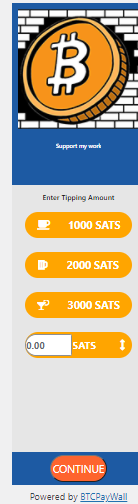
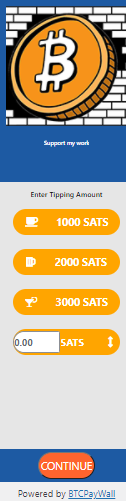
Set metabox under title

diff --git a/assets/src/css/btc-paywall-admin.css b/assets/src/css/btc-paywall-admin.css
@@ -656,9 +656,7 @@ Settings Tabs
 
 /*Tipping metabox*/
 
-/* .btcpaywall_metabox_wrap {
-  background-color: #f4f0ec;
-} */
+
 
 .btcpaywall_metabox_wrap_metabox_tabs {
   background-color: #1d59a2;
@@ -707,6 +705,8 @@ Settings Tabs
 
 .btcpaywall_field_wrap div:nth-child(1),
 .btcpaywall_field_wrap div:nth-child(2) {
+  display: flex;
+  align-items: center;
   width: 49%;
 }
 
@@ -750,7 +750,6 @@ Settings Tabs
   text-transform: none;
   line-height: 1;
   -webkit-font-smoothing: antialiased;
-  margin-left: -30px;
   text-indent: 0;
   text-align: center;
 }
@@ -767,6 +766,7 @@ Settings Tabs
   display: flex;
   flex-direction: column;
   align-items: center;
+  text-align: center;
   gap: 5px;
   width: 40%;
   border: solid 1px #ccc;

diff --git a/includes/admin/tipping-forms/class-tipping-metabox.php b/includes/admin/tipping-forms/class-tipping-metabox.php
@@ -36,6 +36,8 @@ class Tipping_Forms_Metabox
             __('Tipping Form', 'btcpaywall'),
             [$this, 'html'],
             'tipping',
+            'normal',
+            'high'
         );
     }
 
@@ -315,7 +317,7 @@ class Tipping_Forms_Metabox
                                 </option>
                             <?php endforeach; ?>
                         </select>
-                        <input type="text" id="btcpw_tipping_page_icon1" class="btcpw_tipping_page_icon1" name="btcpw_tipping_page_fixed_amount[value1][icon]" placeholder="Font Awesome Icon" title="Enter Font Awesome Icon class value. For example, in order to use beer icon <i class=fa fa-beer></i> you need to enter fa fa-beer." />
+                        <input type="text" id="btcpw_tipping_page_icon1" class="btcpw_tipping_page_icon1" name="btcpw_tipping_page_fixed_amount[value1][icon]" placeholder="Font Awesome Icon 5" title="Enter Font Awesome 5 Icon class value. For example, in order to use beer icon <i class=fa fa-beer></i> you need to enter fa fa-beer." />
                     </fieldset>
                     <fieldset class="btcpaywall_field_wrap"><label>Default price2</label>
                         <input type="checkbox" id="btcpw_page_value_2_enabled" class="btcpw_fixed_amount_enable" name="btcpw_tipping_page_fixed_amount[value2][enabled]" value="true" />
@@ -328,7 +330,7 @@ class Tipping_Forms_Metabox
                                 </option>
                             <?php endforeach; ?>
                         </select>
-                        <input type="text" id="btcpw_tipping_page_icon2" class="btcpw_tipping_page_icon2" name="btcpw_tipping_page_fixed_amount[value2][icon]" placeholder="Font Awesome Icon" title="Enter Font Awesome Icon class value. For example, in order to use beer icon <i class=fa fa-beer></i> you need to enter fa fa-beer." />
+                        <input type="text" id="btcpw_tipping_page_icon2" class="btcpw_tipping_page_icon2" name="btcpw_tipping_page_fixed_amount[value2][icon]" placeholder="Font Awesome 5 Icon 5" title="Enter Font Awesome Icon class value. For example, in order to use beer icon <i class=fa fa-beer></i> you need to enter fa fa-beer." />
                     </fieldset>
                     <fieldset class="btcpaywall_field_wrap"><label>Default price3</label>
                         <input type="checkbox" id="btcpw_page_value_3_enabled" class="btcpw_fixed_amount_enable" name="btcpw_tipping_page_fixed_amount[value3][enabled]" value="true" />
@@ -341,7 +343,7 @@ class Tipping_Forms_Metabox
                                 </option>
                             <?php endforeach; ?>
                         </select>
-                        <input type="text" id="btcpw_tipping_page_icon3" class="btcpw_tipping_page_icon3" name="btcpw_tipping_page_fixed_amount[value3][icon]" placeholder="Font Awesome Icon" title="Enter Font Awesome Icon class value. For example, in order to use beer icon <i class=fa fa-beer></i> you need to enter fa fa-beer." />
+                        <input type="text" id="btcpw_tipping_page_icon3" class="btcpw_tipping_page_icon3" name="btcpw_tipping_page_fixed_amount[value3][icon]" placeholder="Font Awesome 5 Icon 5" title="Enter Font Awesome Icon class value. For example, in order to use beer icon <i class=fa fa-beer></i> you need to enter fa fa-beer." />
                     </fieldset>
                 </div>
                 <div data-id="donor" class="btcpaywall_container_header">
